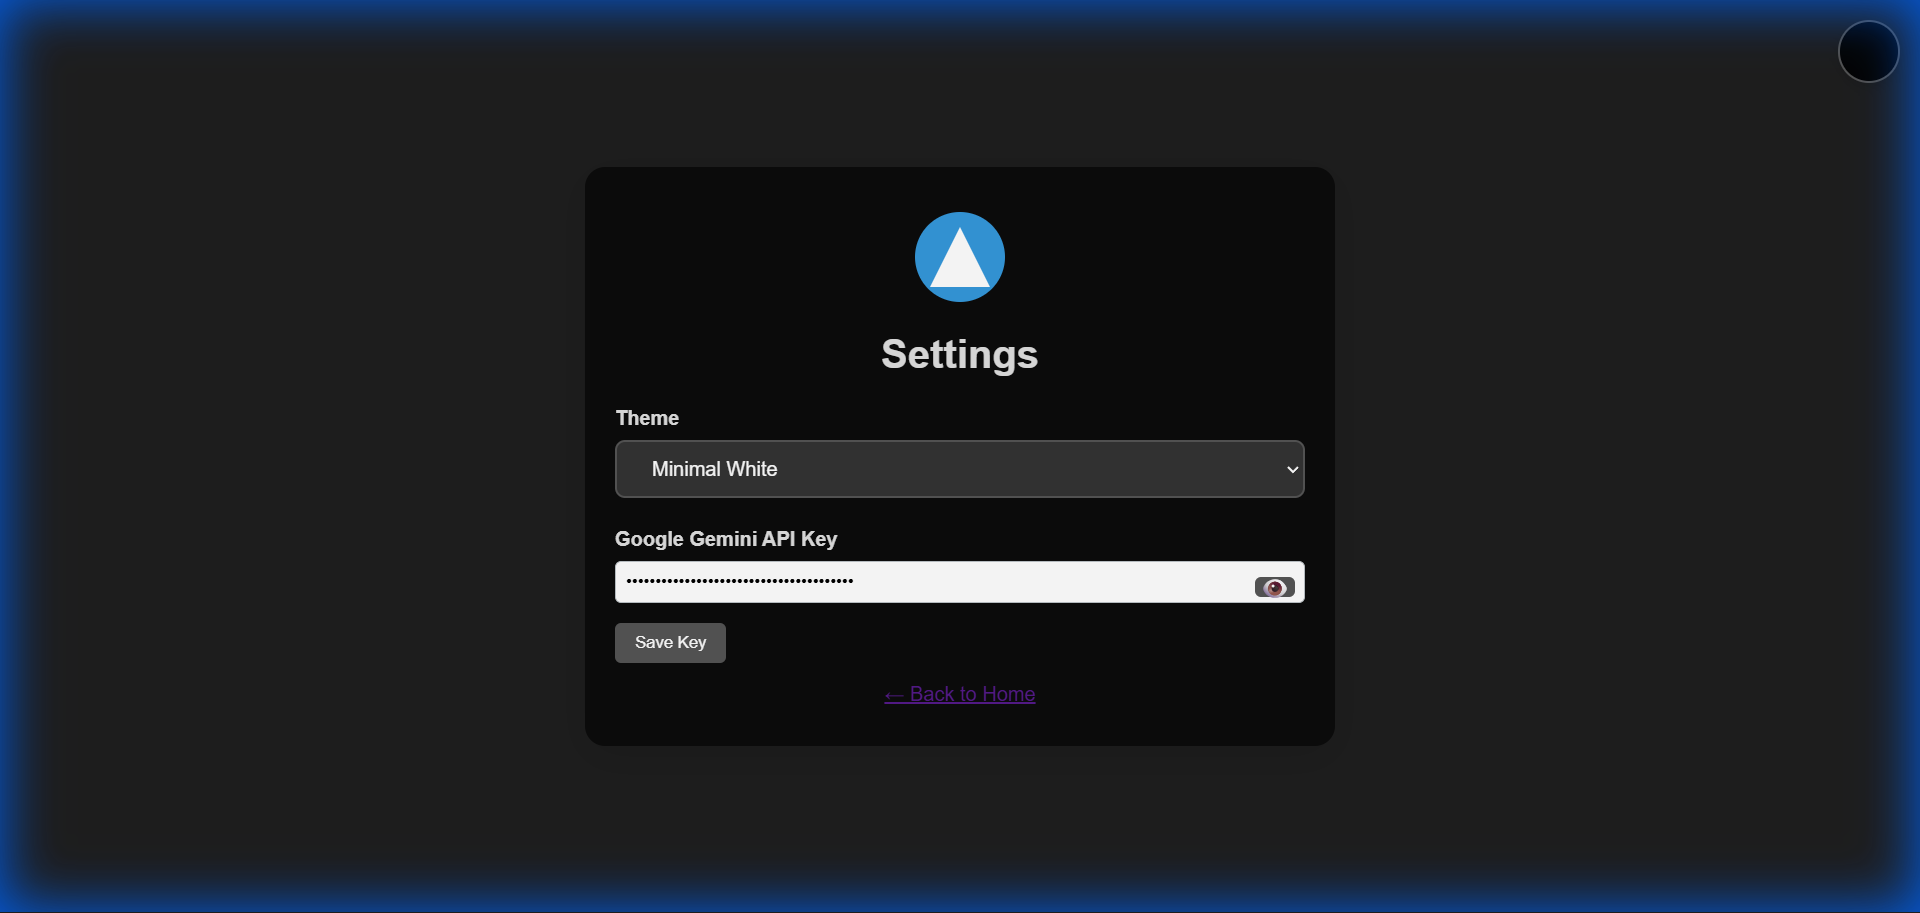
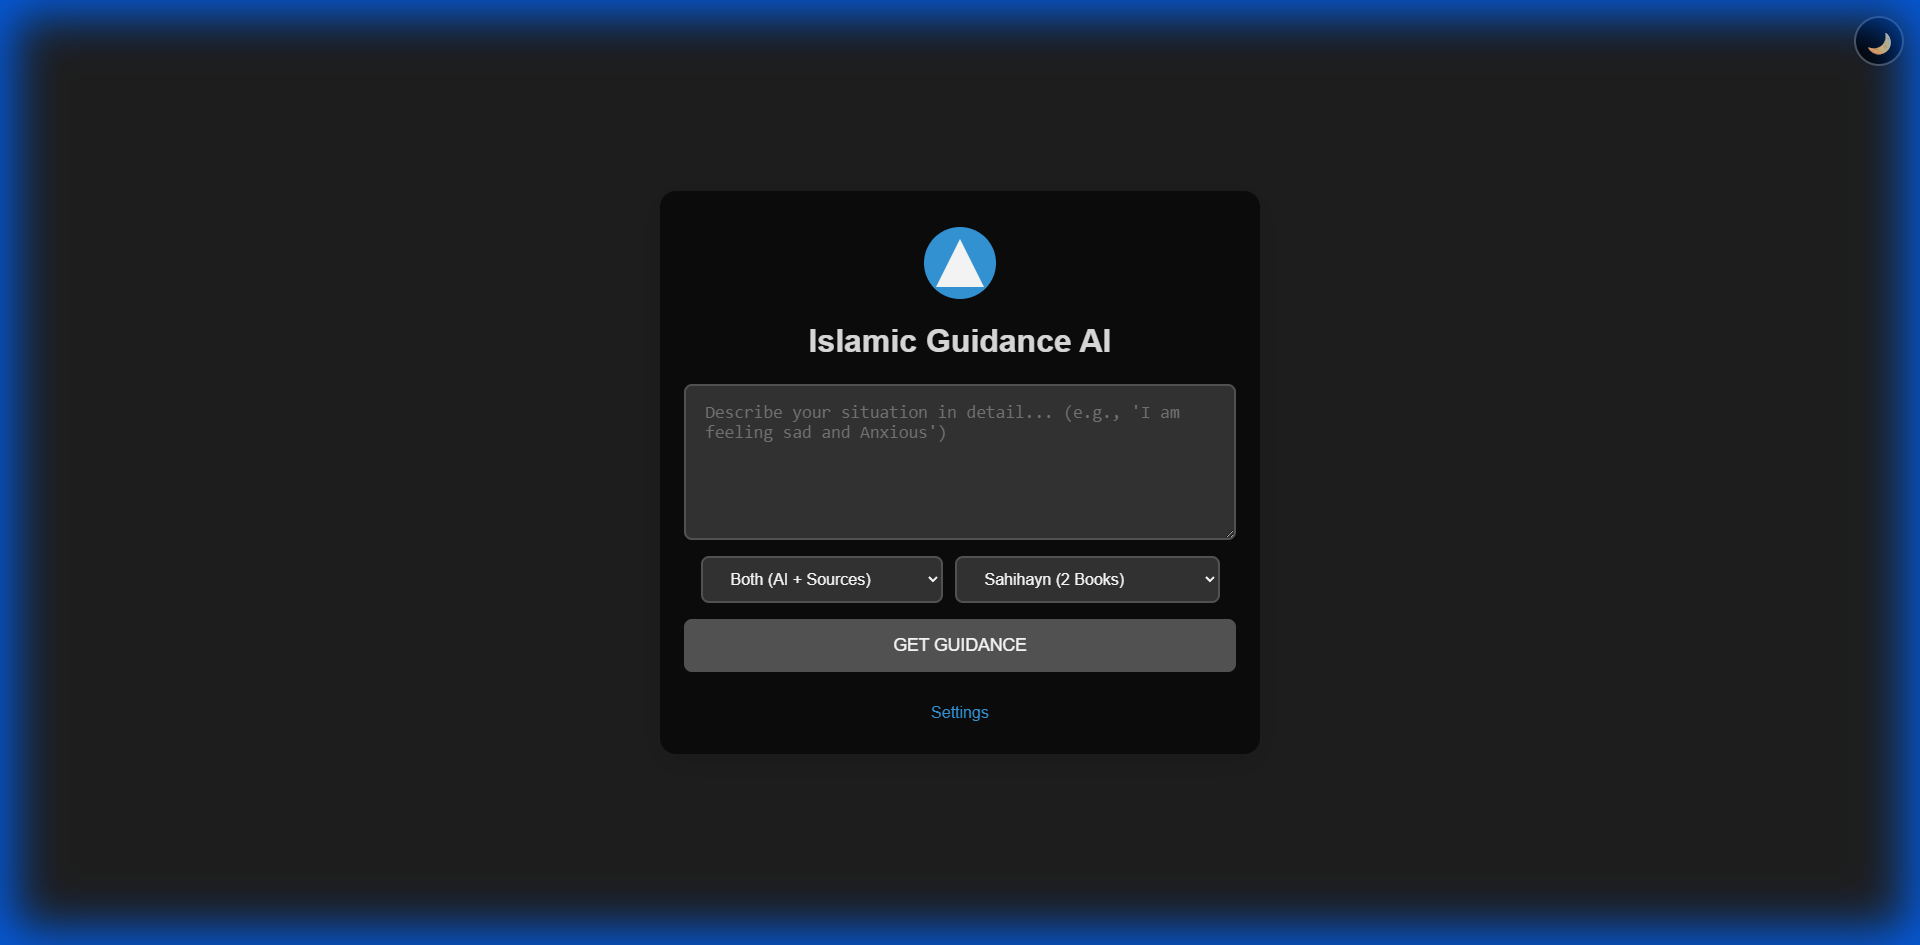
docs: Add new screenshots, update README, and include application logs.

Changed region(s): [[0.0, 0.0, 1.0, 1.0], [0.3125, 0.2147, 0.6875, 0.7667]]

diff --git a/README.md b/README.md
@@ -93,9 +93,8 @@ MuslimGuideAI/
 
 ## 🎨 UI/UX App Preview
 
-### 🏠 Main Page
+### 🏠 Main Page - Traditional Islamic Theme
 
-#### Traditional Islamic Theme (Default)
 ![Main Page - Traditional Islamic Theme](screenshots/main_traditional.png)
 
 **Features Highlighted:**
@@ -109,51 +108,36 @@ MuslimGuideAI/
 
 ---
 
-### ⚙ Settings Page
+### ⚙ Settings Page - Traditional Islamic Theme
 
-#### Theme Selector & Configuration
 ![Settings Page - Traditional Islamic Theme](screenshots/settings_traditional.png)
 
 **Settings Features:**
-- 🎨 **Theme Dropdown** - Select from 3 beautiful themes
+- 🎨 **Theme Dropdown** - Select from 3 beautiful themes (Traditional Islamic, Modern Blue, Minimal White)
 - 🔑 **API Key Management** - Securely configure Gemini API key
 - 👁 **Password Toggle** - Show/hide API key visibility
 - 💾 **Save Button** - Apply and persist settings
 - 🌙 **Dark Mode Toggle** - Consistent across all pages
 - ⬅ **Back to Home** - Easy navigation
 
-**Available Themes:**
-1. **Traditional Islamic** (Default) - Beige/brown with serif fonts
-2. **Modern Blue** - Contemporary blue gradients
-3. **Minimal White** - Clean minimalist design
+---
+
+### 🔍 Query Results - Traditional Islamic Theme
+
+![Query Results - Traditional Islamic Theme](screenshots/query_results_traditional.png)
+
+**Query Results Features:**
+- 📖 **Comprehensive Guidance** - AI-powered Islamic advice based on Quran and Hadith
+- 🔗 **Direct Citations** - Clickable links to source texts
+- 📚 **Source References** - Detailed references to Quran verses and Hadith collections
+- ✨ **Clear Formatting** - Easy-to-read guidance with proper formatting
+- 🕌 **Traditional Aesthetics** - Consistent with the Traditional Islamic theme
 
 ---
 
-### 🌈 Theme Variations
+### 🌙 Dark Mode - Traditional Islamic Theme
 
-#### Modern Blue Theme
-![Settings Page - Modern Blue Theme](screenshots/settings_modern.png)
-
-**Modern Blue Characteristics:**
-- 💙 Vibrant blue gradients
-- ✨ Glassmorphism design with frosted glass effect
-- 🔷 Clean, contemporary aesthetics
-- 📱 Modern sans-serif typography
-
-#### Minimal White Theme
-![Settings Page - Minimal White Theme](screenshots/settings_page.png)
-
-**Minimal White Characteristics:**
-- ⚪ Ultra-clean gray/white palette
-- 🎯 Minimalist Scandinavian design
-- 📏 Simple geometric elements
-- 💨 Lightweight and fast
-
----
-
-### 🌙 Dark Mode
-
-![Dark Mode](screenshots/dark_mode.png)
+![Dark Mode - Traditional Islamic Theme](screenshots/dark_mode.png)
 
 **Dark Mode Features:**
 - 🌑 **One-Click Toggle** - Instant theme switching
@@ -195,6 +179,7 @@ MuslimGuideAI/
 | Variable | Description | Required |
 |----------|-------------|----------|
 | `GEMINI_API_KEY` | Google Gemini API key | Yes |
+| `PORT` | Port number | No |
 
 ## 🧪 Testing
 
